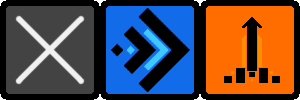
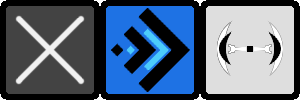
Outer sanil beta
ajout de l'ui
Bug sur les fruit
Bug sur la fin de niveau

Changed region(s): [[0.66, 0.06, 0.99, 0.96]]

diff --git a/javaScript/niveaux/Niveaux1_1.js b/javaScript/niveaux/Niveaux1_1.js
@@ -17,7 +17,11 @@ class Niveaux1_1 extends Phaser.Scene {  // Copier Coller a modifier
     }
     
     
+    
     create (){
+        
+        this.nbfruit = 0
+        
     //--- Paralaxe
         if (debug == false){
             this.add.image(4000, 1080, 'plan4').setScrollFactor(0.20,1);
@@ -58,16 +62,42 @@ class Niveaux1_1 extends Phaser.Scene {  // Copier Coller a modifier
         
         this.player = new Perso(this, 300, 1800, 'snail');
         
+        
         this.ennemi_1 = new Runner(this, 2500, 1700, 'runner');
      
         this.cameras.main.setSize(CameraX, CameraY);
         this.cameras.main.setBounds(0,0,7560,2160);
         this.cameras.main.startFollow(this.player,true,0.08,0.08);
     
+        this.barreDeVie = this.physics.add.sprite(200, 1000, 'vie').setScrollFactor(0,0);
+        
+        this.inventaire = this.physics.add.sprite(1820,1000, 'inventaire').setScrollFactor(0,0);   
+        
+        this.compteurDeFruit = this.physics.add.sprite(1650,1000, 'compteurDeFruit').setScrollFactor(0,0);
+       
+        this.fruit = this.physics.add.staticGroup();
+        this.fruit.create(2562,1600, 'fruit');
+        this.fruit.create(3623,945, 'fruit');
+        this.fruit.create(4430,1377, 'fruit').setFlipY(true);;
+        
+        
+        this.panneaux_dash = this.physics.add.staticGroup(); 
+        this.panneaux_dash.create(970,1755, 'panneaux_dash'); 
+        
+        this.panneaux_shield = this.physics.add.staticGroup();
+        this.panneaux_shield.create(600,1864, 'panneaux_shield');
+        
+        this.spaceShip = this.physics.add.sprite(7100,1540, 'spaceShip');
+        this.spaceShip.setSize(500,126)
+        
+        this.win = this.physics.add.image(-960, -540, 'win').setScrollFactor(0,0);
         
         
     //--- Collider & Overlap
         this.physics.add.collider(this.player, this.collideLayer);
+        
+        this.physics.add.overlap(this.player, this.panneaux_dash, this.Dash, null, this);
+        this.physics.add.overlap(this.player, this.panneaux_shield, this.Shield, null, this);
         
         this.physics.add.collider(this.ennemi_1,  this.collideLayer);
         
@@ -75,11 +105,12 @@ class Niveaux1_1 extends Phaser.Scene {  // Copier Coller a modifier
         this.physics.add.overlap(this.player, this.graviteLayer);
         this.physics.add.overlap(this.player, this.antiGraviteLayer); 
         
+        this.physics.add.overlap(this.fruit, this.player, this.collectFruits);
+        this.physics.add.overlap(this.player, this.spaceShip, this.sortieDeNiveau);
         
     //--- Debug 
-        this.pXT = this.add.text(30,990,(''), { fontSize: FontSize, fill: FontColor, strokeThickness: FontThisckness, stroke: FontColor }).setScrollFactor(0);
-        this.pYT = this.add.text(30,1020,(''), { fontSize: FontSize, fill: FontColor, strokeThickness: FontThisckness, stroke: FontColor }).setScrollFactor(0);
-        
+        this.pXT = this.add.text(30,30,(''), { fontSize: FontSize, fill: FontColor, strokeThickness: FontThisckness, stroke: FontColor }).setScrollFactor(0);
+        this.pYT = this.add.text(30,60,(''), { fontSize: FontSize, fill: FontColor, strokeThickness: FontThisckness, stroke: FontColor }).setScrollFactor(0);
         
     }
     
@@ -89,13 +120,13 @@ class Niveaux1_1 extends Phaser.Scene {  // Copier Coller a modifier
         this.player.update();
         this.ennemi_1.update(this.player.x, this.player.y);
         
-        
+        this.inventaire.anims.play("inv" + this.player.inventaire);
+        this.compteurDeFruit.anims.play("fruit");
         
     //--- Debug 
         if (debug == true){
             this.pXT.setText('X = ' + this.player.x);
             this.pYT.setText('Y = ' + this.player.y);
-
         }
         
         
@@ -162,18 +193,39 @@ class Niveaux1_1 extends Phaser.Scene {  // Copier Coller a modifier
         }
 
         if(this.A.isDown){
-            this.player.Dash(this.player);
+            this.player.Pouvoir(this.player);
         }
         
         
         
     }// fin de Update
 
-  Dommage(){
-      
-      this.player.Vie();
-      this.cameras.main.shake(50, 0.015)
-  }
+    Dommage(){
+        if (this.player.invu == false){
+            this.player.Vie();
+            this.cameras.main.shake(50, 0.02)
+            this.barreDeVie.anims.play("vie" + this.player.hp);
+        }
+    }
     
+    Dash (){
+        this.player.Loot("dash");
+    }
+    
+    Shield (){
+        this.player.Loot("shield");
+    }
+    
+    collectFruits (player, fruit){
+        this.nbfruit = this.nbfruit + 1
+        fruit.destroy(true, true);
+        
+    }
+    
+    sortieDeNiveau (player, spaceShip)
+    {
+        this.win.x = 960
+        this.win.y = 540
+    }
     
 }// fin de Class

diff --git a/javaScript/Load.js b/javaScript/Load.js
@@ -16,10 +16,14 @@ class Load extends Phaser.Scene {
         this.load.image('ennemi', 'assets/ennemi.png');
         this.load.image('hitbox', 'assets/hitbox.png');
         this.load.image('fruit', 'assets/fruit.png');
+        this.load.image('panneaux_dash', 'assets/panneaux_dash.png');
+        this.load.image('panneaux_shield', 'assets/panneaux_shield.png');
+        
         this.load.spritesheet("snail", 'assets/snail.png',{frameWidth:108, frameHeight:54});
         this.load.spritesheet("vie", 'assets/barreDeVie.png',{frameWidth:218, frameHeight:54});
         this.load.spritesheet("inventaire", 'assets/inventaire.png',{frameWidth:100, frameHeight:100});
-        this.load.spritesheet("CDF", 'assets/compteurDeFruit.png',{frameWidth:192, frameHeight:78});
+        this.load.spritesheet('compteurDeFruit', 'assets/compteurDeFruit.png',{frameWidth:192, frameHeight:78});
+        this.load.spritesheet('spaceShip', 'assets/spaceShip.png',{frameWidth:726, frameHeight:126});
         
         
     // Ennemis -------------------------------------  
@@ -50,7 +54,7 @@ class Load extends Phaser.Scene {
         
         this.load.image('debug_BG', 'assets/menus/debug_BG.png');
         this.load.image('menu', 'assets/menus/pauseBG.png');
-        
+        this.load.image('win', 'assets/menus/win.png');
     }
     
     create (){
@@ -89,7 +93,7 @@ class Load extends Phaser.Scene {
         });
         
         
-        /*    
+            
       // Barre de Vie
         this.anims.create({
             key: 'vie3',
@@ -108,34 +112,8 @@ class Load extends Phaser.Scene {
             repeat: 10000,
         });
         
-        this.anims.create({
-            key: 'vie_0',
-            frames: [ { key: 'vie', frame: 4. } ],
-        });
         
-      // Compteur de Fruit
-        this.anims.create({
-            key: 'fruit0',
-            frames: [ { key: 'CDF', frame: 0. } ],
-        });
-        
-        this.anims.create({
-            key: 'fruit1',
-            frames: [ { key: 'CDF', frame: 1. } ],
-        });
-        
-        this.anims.create({
-            key: 'fruit2',
-            frames: [ { key: 'CDF', frame: 2. } ],
-        });
-        
-        this.anims.create({
-            key: 'fruit3',
-            frames: [ { key: 'CDF', frame: 3. } ],
-        });
-        
-        
-      // Inventaire
+        // Inventaire
         this.anims.create({
             key: 'inv0',
             frames: [ { key: 'inventaire', frame: 0. } ],
@@ -150,10 +128,31 @@ class Load extends Phaser.Scene {
             key: 'inv2',
             frames: [ { key: 'inventaire', frame: 2. } ],
         });
+    
+    
+      // Compteur de Fruit
+        this.anims.create({
+            key: 'fruit0',
+            frames: [ { key: 'compteurDeFruit', frame: 0. } ],
+        });
         
-       
+        this.anims.create({
+            key: 'fruit1',
+            frames: [ { key: 'compteurDeFruit', frame: 1. } ],
+        });
+        
+        this.anims.create({
+            key: 'fruit2',
+            frames: [ { key: 'compteurDeFruit', frame: 2. } ],
+        });
+        
+        this.anims.create({
+            key: 'fruit3',
+            frames: [ { key: 'compteurDeFruit', frame: 3. } ],
+        });
+        
    
-         */  
+     
         
         console.log(this);
         this.scene.start("Menu");

diff --git a/javaScript/Perso.js b/javaScript/Perso.js
@@ -25,6 +25,8 @@ class Perso extends Phaser.GameObjects.Sprite{
          this.invu = false;
          this.invuTimer = 50;
          
+         this.inventaire = 0;
+         
          this.vitesseDeDeplacement = 300;
          this.hauteurDeSaut = 350;
          this.puissanceDeGravite = 400;
@@ -183,7 +185,6 @@ class Perso extends Phaser.GameObjects.Sprite{
     
     Vie(){
         
-        if (this.invu == false){
             this.hp = this.hp - 1
             this.invu = true
             console.log('degat')
@@ -192,7 +193,6 @@ class Perso extends Phaser.GameObjects.Sprite{
                 this.Dead()
                 console.log(this)
             }  
-        } 
     }
     
     
@@ -268,10 +268,32 @@ class Perso extends Phaser.GameObjects.Sprite{
         
     } 
     
+    Loot (x){
+        this.items = x
+        
+        if (this.inventaire == 0){
+            if (this.items == "dash"){
+                this.inventaire = 1
+            }
+        
+            if (this.items == "shield"){
+                this.inventaire = 2
+            }
+        }
+        
+    }
     
     
-    Dash (){
-        this.dashOn = true
+    Pouvoir (){
+        if (this.inventaire == 1){
+            this.dashOn = true
+            this.inventaire = 0
+        }
+        
+        if (this.inventaire == 2){
+            this.invu = true
+            this.inventaire = 0
+        }
     }
     
     

diff --git a/index.html b/index.html
@@ -31,7 +31,7 @@
 
     
     <! -- Fin Import -- >
-    
+    <script type="text/javascript" src="javaScript/BarreDeVie.js"></script>
     <script type="text/javascript" src="javaScript/Perso.js"></script>
     <script type="text/javascript" src="javaScript/Menu.js"></script>
     <script type="text/javascript" src="javaScript/Map.js"></script>
@@ -43,7 +43,7 @@
 // Configuration de viewport: 
     
     
-    const debug = false;
+    const debug = true;
     
     const FontSize = 30;
     const FontColor = '#000';
@@ -70,6 +70,7 @@
             Load,
             Menu,
             Map,
+            
             
             Niveaux0_Test,
             Niveaux0_Blank,

diff --git a/javaScript/BarreDeVie.js b/javaScript/BarreDeVie.js
@@ -1,0 +1,18 @@
+class BarreDeVie extends Phaser.GameObjects.Sprite{
+    
+     constructor (scene, x, y, texture ){
+         super(scene, x, y, texture);
+         
+         scene.add.existing(this);
+         scene.physics.world.enableBody(this);
+         
+         console.log(this) 
+   
+    }
+    
+    Anim(HP){
+        this.hp = HP
+        this.anims.play("vie" + this.hp );
+    }
+    
+}

diff --git a/javaScript/ennemis/Runner.js b/javaScript/ennemis/Runner.js
@@ -9,7 +9,6 @@ class Runner extends Phaser.GameObjects.Sprite{
          console.log(this) 
          
          this.body.setSize(54,54);
-         this.body.immovable = true;
          
          this.randomTimer = 0;
          
